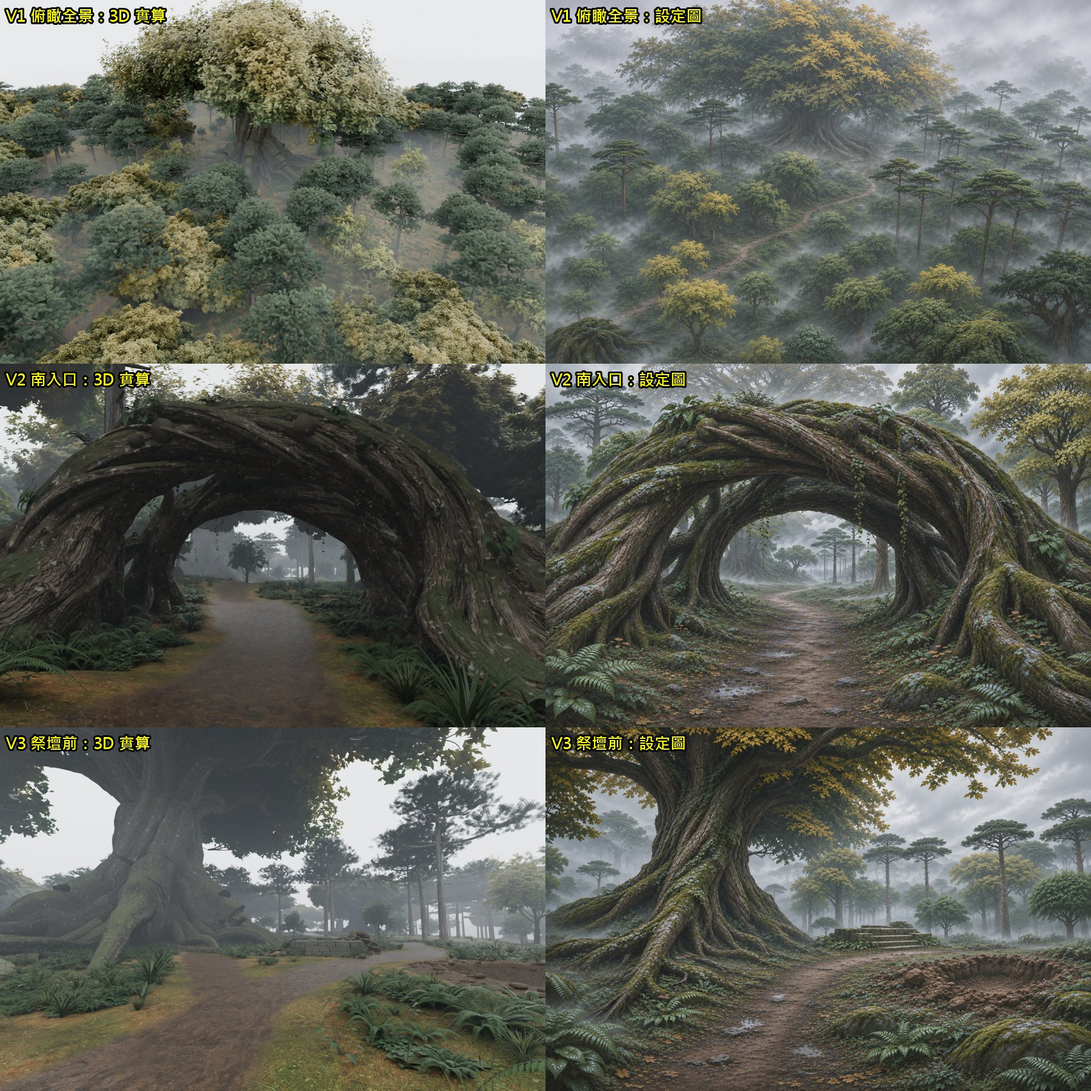
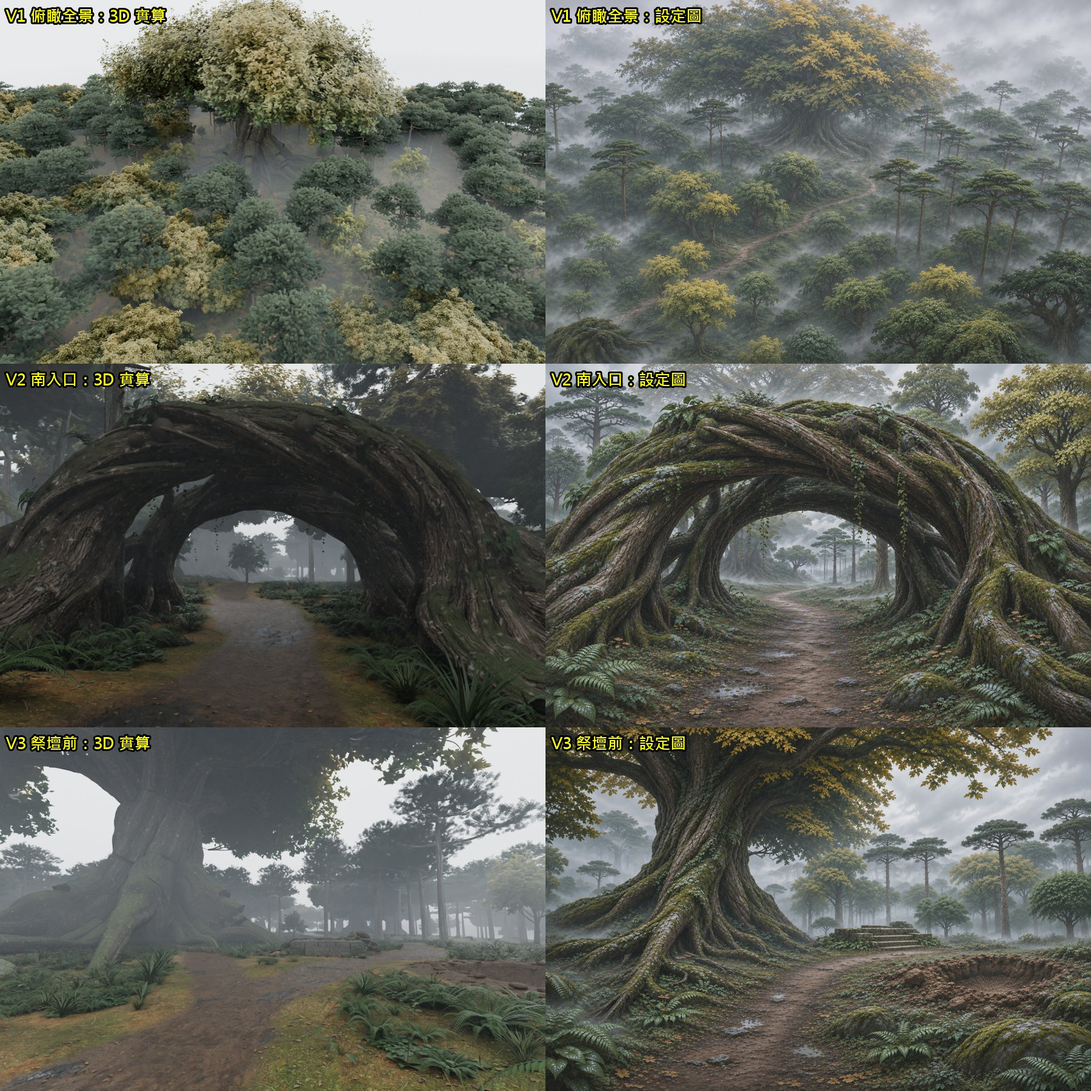
D2: low fog layer, more pines outside clearing, leaf litter and wet path patches

diff --git a/art/source/core-d2-v1/d2_plan.py b/art/source/core-d2-v1/d2_plan.py
@@ -245,7 +245,27 @@ if 'real' in argv:   # 泥路用平滑遮罩混材質（不要方塊鋸齒邊）
     rmx = nt.nodes.new('ShaderNodeMapRange')
     nt.links.new(mr.outputs[0], rmx.inputs['Value'])
     rmx.inputs['To Min'].default_value, rmx.inputs['To Max'].default_value = .85, .45   # 泥路濕、反光
-    nt.links.new(rmx.outputs[0], b.inputs['Roughness'])
+    pn = nt.nodes.new('ShaderNodeTexNoise')   # 積水小窪：路上一塊塊
+    pn.inputs['Scale'].default_value = .45
+    pn.inputs['Detail'].default_value = 4
+    nt.links.new(tc.outputs['Object'], pn.inputs['Vector'])
+    pmr = nt.nodes.new('ShaderNodeMapRange')
+    pmr.inputs['From Min'].default_value, pmr.inputs['From Max'].default_value = .60, .64
+    nt.links.new(pn.outputs['Fac'], pmr.inputs['Value'])
+    pmul = nt.nodes.new('ShaderNodeMath')
+    pmul.operation = 'MULTIPLY'
+    nt.links.new(pmr.outputs[0], pmul.inputs[0])
+    nt.links.new(mr.outputs[0], pmul.inputs[1])
+    rfin = nt.nodes.new('ShaderNodeMix')
+    nt.links.new(pmul.outputs[0], rfin.inputs['Factor'])
+    nt.links.new(rmx.outputs[0], rfin.inputs['A'])
+    rfin.inputs['B'].default_value = .04
+    nt.links.new(rfin.outputs['Result'], b.inputs['Roughness'])
+    cdk = nt.nodes.new('ShaderNodeMixRGB')
+    nt.links.new(pmul.outputs[0], cdk.inputs[0])
+    nt.links.new(cm.outputs[0], cdk.inputs[1])
+    cdk.inputs[2].default_value = (.035, .03, .025, 1)
+    nt.links.new(cdk.outputs[0], b.inputs['Base Color'])
     me.materials[0] = GM
     # 坑（CO02 獨立模型）底下的主地面壓低，不要蓋住坑洞
     _bm = bmesh.new()   # 坑模型底下的主地面挖掉（不能只壓低，斜面會穿進坑裡）
@@ -612,6 +632,9 @@ while len(TREES) < (260 if not QUICK else 120) and tries < 60000:
         continue
     TREES.append((x, y, k, R.uniform(.85, 1.15)))
 _CAMS = [(2.5, -97), (6, -13), (18.5, -10.5), (-9, 17), (1, 91)]
+_CR = random.Random(31)
+if 'real' in argv:   # 設定圖 V1：松樹比例高、樹冠之間看得到樹幹 → 外圍一部分圓冠樹換成傘頂松
+    TREES = [(x, y, ('P' if (k == 'M' and math.hypot(x - CLEAR[0], y - CLEAR[1]) > CLEAR[2] + 8 and _CR.random() < .5) else k), s) for x, y, k, s in TREES]
 for x, y, k, s in TREES:
     if 'real' in argv and (any(math.hypot(x - cx, y - cy) < (16 if k == 'G' else 8) for cx, cy in _CAMS) or math.hypot(x - ARCH_N[0], y - ARCH_N[1]) < (24 if k == 'G' else 12)):
         continue   # 真樹的樹冠比方塊寬，相機旁邊的樹拿掉，免得鏡頭被擋
@@ -739,6 +762,36 @@ if 'real' in argv:
         if nug >= 40000:
             break
     print('UNDERGROWTH', nug)
+    # 路上的積水小窪、落葉（設定圖每一張路面都有）
+    litter_mat = _leaf_material('Litter', (.55, .5, .45, 1), (.85, .8, .72, 1), (.9, .85, .7, 1), gloss=.6)
+    LR = random.Random(41)
+
+    def _lit_place():
+        cx, cy = LR.choice(_CAMS + [ARCH_S, ARCH_N, PIT, ALT])
+        a_, r_ = LR.uniform(0, 6.283), 14 * LR.random() ** .7
+        x, y = cx + math.cos(a_) * r_, cy + math.sin(a_) * r_
+        if math.hypot(x - PIT[0], y - PIT[1]) < 3.6:
+            return None
+        return (x, y), gh(x, y)
+    litter('PathLitter', LR, 30000, _lit_place, litter_mat)
+    pw = bpy.data.materials.new('Puddle')
+    pw.use_nodes = True
+    _pb = next(x_ for x_ in pw.node_tree.nodes if x_.type == 'BSDF_PRINCIPLED')
+    _pb.inputs['Base Color'].default_value = (.03, .028, .025, 1)
+    _pb.inputs['Roughness'].default_value = .03
+    npd = 0
+    for i in range(4000):
+        x, y = LR.uniform(-30, 30), LR.uniform(-100, 110)
+        if True:   # 改用路面材質的濕窪（模型窪會浮起來、像鏡子）
+            continue
+        r_ = LR.uniform(.15, .55)
+        bpy.ops.mesh.primitive_circle_add(vertices=20, radius=r_, fill_type='NGON', location=(x, y, gh(x, y) + .012))
+        pu = bpy.context.object
+        pu.scale = (LR.uniform(1, 1.8), LR.uniform(.6, 1), 1)
+        pu.rotation_euler.z = LR.uniform(0, 3.14)
+        pu.data.materials.append(pw)
+        npd += 1
+    print('PUDDLES', npd)
 
 # 1.75 m 人形尺（祭壇前）
 cyl((4, -6, gh(4, -6)), .22, .18, 1.75, mat('human', (.8, .1, .1))).hide_render = True
@@ -760,7 +813,31 @@ bpy.ops.mesh.primitive_cube_add(size=1, location=(200, 50, 40))
 fog = bpy.context.object
 fog.name = 'Fog'
 fog.scale = (1200, 1200, 140)
-if 'real' in argv:   # 霧壓低：林間一層低霧，樹冠露出來（設定圖 V1）
+if 'real' in argv:   # 林間低霧層：貼地一層較濃的霧（設定圖 V1 樹冠間的白霧）
+    bpy.ops.mesh.primitive_cube_add(size=1, location=(0, 10, 6))
+    _lf = bpy.context.object
+    _lf.name = 'LowFog'
+    _lf.scale = (420, 420, 10)
+    _lfm = bpy.data.materials.new('lowfog')
+    _lfm.use_nodes = True
+    _nt = _lfm.node_tree
+    for _nd in list(_nt.nodes):
+        if _nd.type == 'BSDF_PRINCIPLED':
+            _nt.nodes.remove(_nd)
+    _vs = _nt.nodes.new('ShaderNodeVolumePrincipled')
+    _vs.inputs['Color'].default_value = (.9, .92, .94, 1)
+    _nz = _nt.nodes.new('ShaderNodeTexNoise')
+    _nz.inputs['Scale'].default_value = .015
+    _nz.inputs['Detail'].default_value = 3
+    _tc = _nt.nodes.new('ShaderNodeTexCoord')
+    _nt.links.new(_tc.outputs['Object'], _nz.inputs['Vector'])
+    _mr = _nt.nodes.new('ShaderNodeMapRange')
+    _mr.inputs['From Min'].default_value, _mr.inputs['From Max'].default_value = .45, .7
+    _mr.inputs['To Min'].default_value, _mr.inputs['To Max'].default_value = .0, .014
+    _nt.links.new(_nz.outputs['Fac'], _mr.inputs['Value'])
+    _nt.links.new(_mr.outputs[0], _vs.inputs['Density'])
+    _nt.links.new(_vs.outputs['Volume'], next(_nd for _nd in _nt.nodes if _nd.type == 'OUTPUT_MATERIAL').inputs['Volume'])
+    _lf.data.materials.append(_lfm)
     fog.location.z, fog.scale.z = 4, 26
 fm = bpy.data.materials.new('fog')
 fm.use_nodes = True
